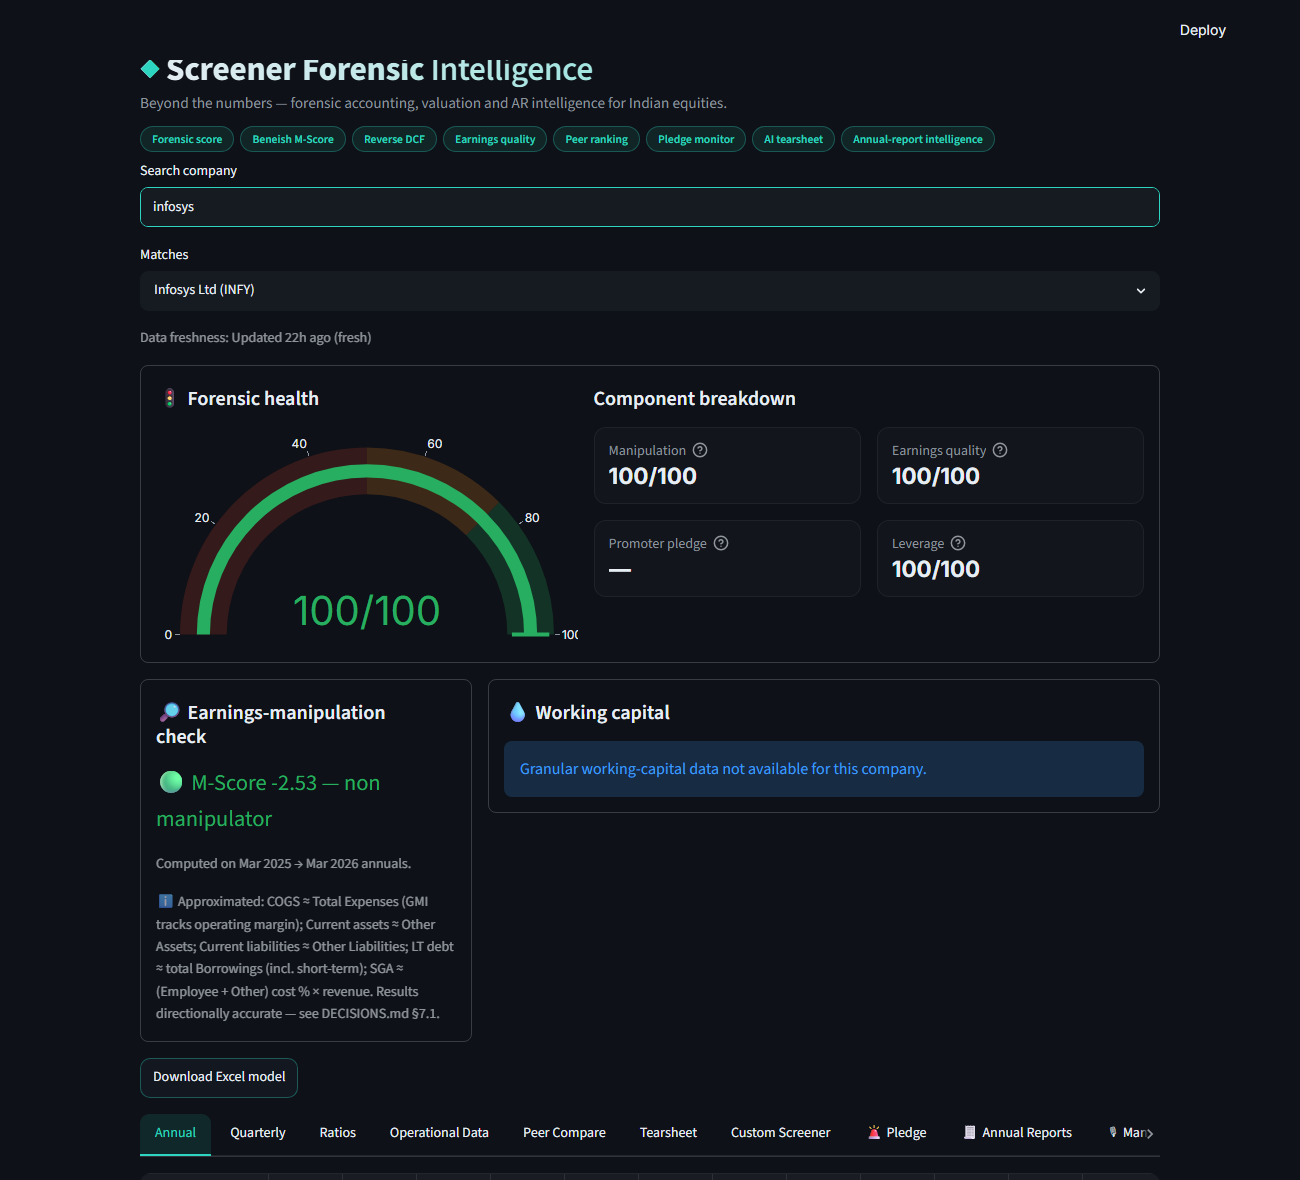
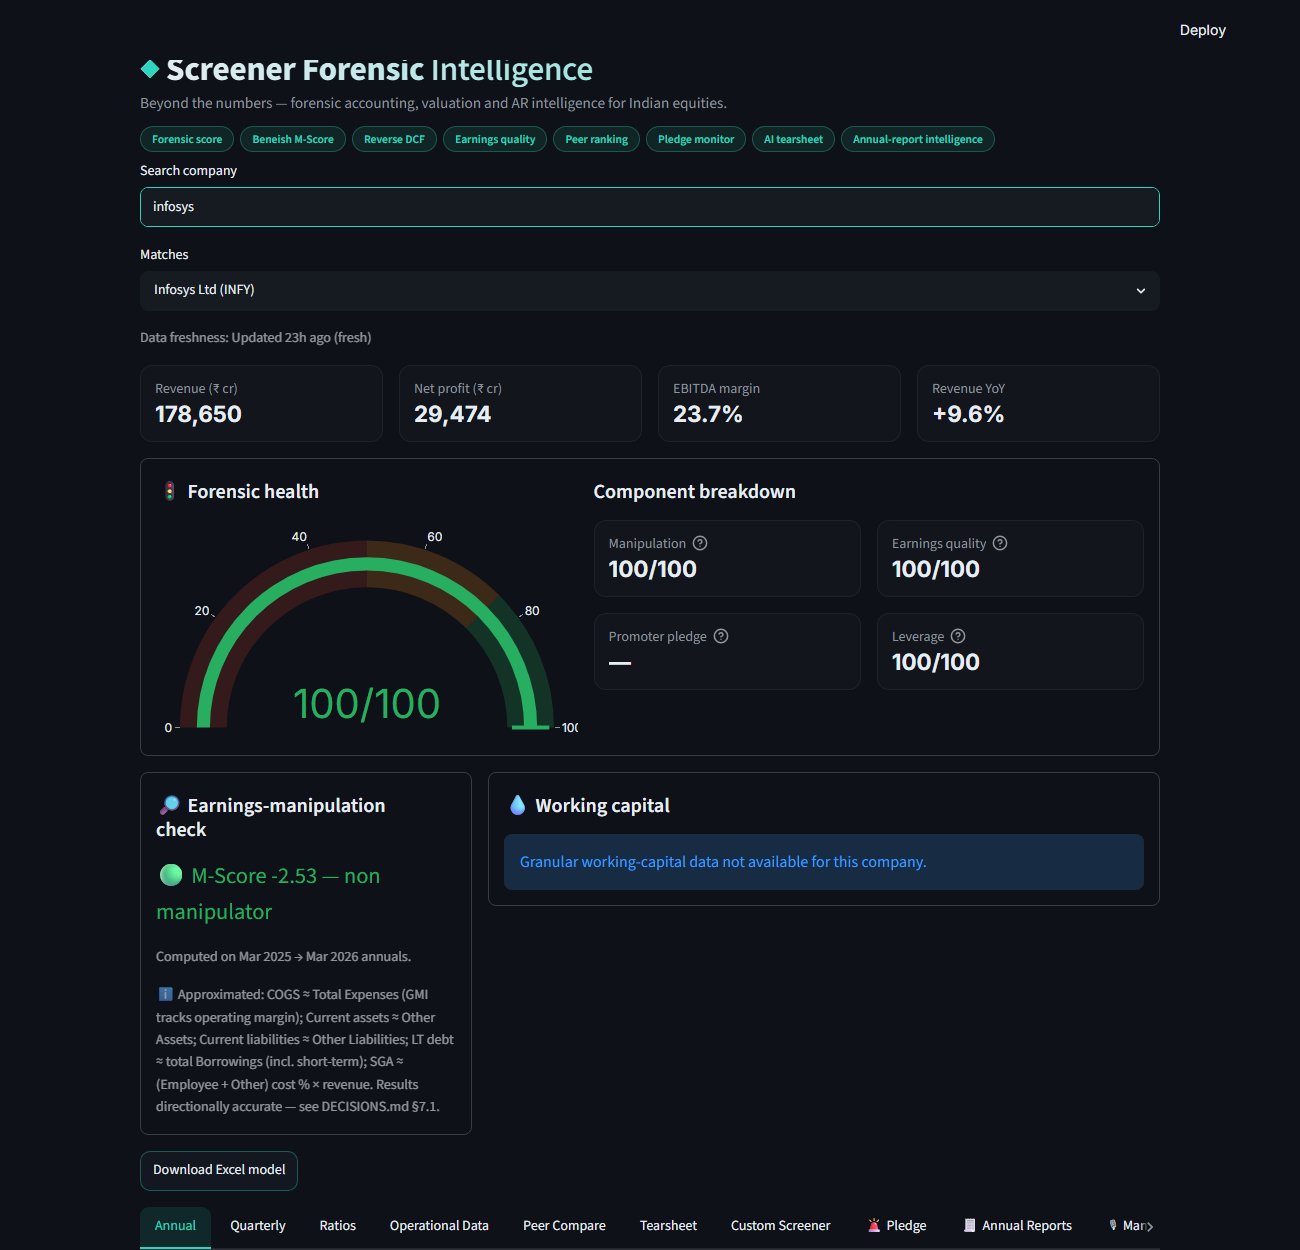
feat: real Chrome UA, KPI strip, formatted tables, thread-safe sessions
- fix: replace the bot user-agent ("ScreenerFinanceTool/1.0") with a real
  Chrome UA on the main scraper — the likely cause of stripped/blocked pages
  for small caps from datacenter IPs (matches the AR downloader's fingerprint).
- ui: headline KPI strip (revenue, net profit, EBITDA margin, revenue YoY);
  thousands-formatted statement tables with em-dash for blanks; consistent
  transparent/Inter Plotly theming across the WC heatmap and pledge chart.
- fix: cache the DB *engine* (safe to share) and build a fresh Session per
  run instead of sharing one cached Session across Streamlit's per-user
  threads (SQLAlchemy Sessions aren't thread-safe); page HTML re-hydrated via
  session_state for the pledge/peer features.

464 tests, ~92% coverage, app boots clean.

diff --git a/screener/ui/components.py b/screener/ui/components.py
@@ -26,6 +26,15 @@ _BENEISH_STYLE = {
 }
 
 
+# Shared Plotly layout for a consistent dark, branded look across charts.
+_PLOTLY_LAYOUT = {
+    "paper_bgcolor": "rgba(0,0,0,0)",
+    "plot_bgcolor": "rgba(0,0,0,0)",
+    "font": {"color": "#e6edf3", "family": "Inter, sans-serif"},
+    "margin": {"l": 40, "r": 20, "t": 50, "b": 30},
+}
+
+
 def financial_table_to_df(table: FinancialTable | None) -> pd.DataFrame:
     """Convert a FinancialTable to a periods-as-columns DataFrame.
 
@@ -39,6 +48,62 @@ def financial_table_to_df(table: FinancialTable | None) -> pd.DataFrame:
     if table is None:
         return pd.DataFrame()
     return pd.DataFrame.from_dict(table.rows, orient="index", columns=table.periods)
+
+
+def style_statement_df(df: pd.DataFrame) -> "object":
+    """Return a Styler that formats a statement DataFrame for display.
+
+    Thousands-separated, no decimals, em-dash for missing cells, right-aligned.
+
+    Args:
+        df: A statement DataFrame from :func:`financial_table_to_df`.
+
+    Returns:
+        A pandas Styler (pass straight to ``st.dataframe``).
+    """
+    return df.style.format(na_rep="—", precision=0, thousands=",").set_properties(
+        **{"text-align": "right"}
+    )
+
+
+def headline_kpis(fin: CompanyFinancials) -> list[tuple[str, str]]:
+    """Return headline KPI tiles (label, formatted value) for the overview strip.
+
+    Args:
+        fin: Parsed company financials.
+
+    Returns:
+        Up to four (label, value) pairs — latest revenue, net profit, EBITDA
+        margin and YoY revenue growth — omitting any that can't be computed.
+    """
+    pl = fin.profit_loss
+    if pl is None:
+        return []
+
+    def _latest(*needles: str) -> float | None:
+        for needle in needles:
+            row = pl.row(needle)
+            if row:
+                for value in reversed(row):
+                    if value is not None:
+                        return value
+        return None
+
+    revenue = _latest("sales", "revenue")
+    pat = _latest("net profit", "profit after tax")
+    op_profit = _latest("operating profit")
+
+    kpis: list[tuple[str, str]] = []
+    if revenue is not None:
+        kpis.append(("Revenue (₹ cr)", f"{revenue:,.0f}"))
+    if pat is not None:
+        kpis.append(("Net profit (₹ cr)", f"{pat:,.0f}"))
+    if revenue and op_profit is not None:
+        kpis.append(("EBITDA margin", f"{op_profit / revenue * 100:.1f}%"))
+    rev_row = pl.row("sales") or pl.row("revenue")
+    if rev_row and len(rev_row) >= 2 and rev_row[-1] and rev_row[-2]:
+        kpis.append(("Revenue YoY", f"{(rev_row[-1] / rev_row[-2] - 1) * 100:+.1f}%"))
+    return kpis
 
 
 def beneish_flag(result: BeneishResult | None) -> tuple[str, str, str]:
@@ -174,6 +239,7 @@ def build_wc_heatmap_figure(heatmap: dict[str, list]) -> "object":
         title="Working Capital Cycle (days)",
         xaxis_title="Period",
         yaxis_title="Metric",
+        **_PLOTLY_LAYOUT,
     )
     return figure
 
@@ -343,7 +409,9 @@ def build_pledge_figure(history: list) -> "object":
         title="Promoter pledge history",
         yaxis_title="% of promoter holding pledged",
         yaxis_rangemode="tozero",
+        **_PLOTLY_LAYOUT,
     )
+    figure.update_traces(line_color="#2dd4bf", marker_color="#2dd4bf")
     return figure
 
 

diff --git a/screener/tests/test_ui_components.py b/screener/tests/test_ui_components.py
@@ -121,6 +121,41 @@ class TestOperationalToDf:
         assert components.operational_to_df(OperationalData(periods=[], metrics=[])).empty
 
 
+class TestHeadlineKpis:
+    _PAGE = """
+    <html><body><h1>Co</h1>
+      <section id="profit-loss"><table>
+        <thead><tr><th></th><th>Mar 2024</th><th>Mar 2025</th></tr></thead>
+        <tbody>
+          <tr><td>Sales</td><td>10,000</td><td>11,000</td></tr>
+          <tr><td>Operating Profit</td><td>2,000</td><td>2,200</td></tr>
+          <tr><td>Net Profit</td><td>1,200</td><td>1,350</td></tr>
+        </tbody>
+      </table></section>
+    </body></html>
+    """
+
+    def test_kpis_computed(self) -> None:
+        fin = parse_company_financials(self._PAGE)
+        kpis = dict(components.headline_kpis(fin))
+        assert kpis["Revenue (₹ cr)"] == "11,000"
+        assert kpis["Net profit (₹ cr)"] == "1,350"
+        assert kpis["EBITDA margin"] == "20.0%"
+        assert kpis["Revenue YoY"] == "+10.0%"
+
+    def test_empty_without_pl(self) -> None:
+        fin = parse_company_financials("<html><body></body></html>")
+        assert components.headline_kpis(fin) == []
+
+
+class TestStyleStatementDf:
+    def test_returns_styler(self) -> None:
+        import pandas as pd
+        from pandas.io.formats.style import Styler
+        df = pd.DataFrame({"Mar 2024": [10000.0, None]}, index=["Sales", "X"])
+        assert isinstance(components.style_statement_df(df), Styler)
+
+
 class TestDataQualityNote:
     def test_empty_when_all_exact(self) -> None:
         assert components.data_quality_note([], []) == ""

diff --git a/screener/ui/app.py b/screener/ui/app.py
@@ -107,12 +107,16 @@ def _render_header(st: Any) -> None:
 # --------------------------------------------------------------------------- #
 # Resource wiring (cached across reruns)
 # --------------------------------------------------------------------------- #
-def _build_service() -> CompanyDataService:
-    """Construct a CompanyDataService backed by a fresh DB session."""
+def _cached_engine():
+    """Build and migrate the engine once (safe to share across sessions).
+
+    The engine is cached as a Streamlit resource; a *fresh session* is created
+    per run (SQLAlchemy Sessions are not thread-safe and must not be shared
+    across Streamlit's per-user threads).
+    """
     engine = build_engine()
     ensure_schema(engine)
-    session = get_session_factory(engine)()
-    return CompanyDataService(session)
+    return engine
 
 
 def _financials_to_excel_bytes(fin: CompanyFinancials, ar_rows: list, annual_rows: list) -> bytes:
@@ -133,12 +137,12 @@ def _financials_to_excel_bytes(fin: CompanyFinancials, ar_rows: list, annual_row
 # Tab renderers
 # --------------------------------------------------------------------------- #
 def _render_statement_tab(st: Any, title: str, table: Any) -> None:
-    """Render a single parsed statement as a table, or an info message."""
+    """Render a single parsed statement as a formatted table, or an info message."""
     df = components.financial_table_to_df(table)
     if df.empty:
         st.info(f"No {title} data available for this company.")
     else:
-        st.dataframe(df, use_container_width=True)
+        st.dataframe(components.style_statement_df(df), use_container_width=True)
 
 
 def _render_peer_tab(st: Any, service: CompanyDataService, symbol: str) -> None:
@@ -438,7 +442,8 @@ def main() -> None:
     _inject_css(st)
     _render_header(st)
 
-    service = st.cache_resource(_build_service)()
+    engine = st.cache_resource(_cached_engine)()
+    service = CompanyDataService(get_session_factory(engine)())
 
     # --- Search with autocomplete ----------------------------------------- #
     @st.cache_data(ttl=300, show_spinner=False)
@@ -466,15 +471,25 @@ def main() -> None:
     st.caption(f"Data freshness: {components.format_freshness(service.freshness(symbol))}")
 
     # Refresh once per selected symbol; tab clicks rerun the script but must
-    # not hammer Screener with repeat fetches (the service object persists via
-    # cache_resource, so last_html survives reruns for the pledge tab).
+    # not hammer Screener with repeat fetches. The service is rebuilt each run
+    # (fresh session), so the page HTML is cached in session_state and
+    # re-hydrated onto the service for the pledge/peer features.
     if st.session_state.get("loaded_symbol") != symbol:
         with st.spinner(f"Loading {symbol}…"):
             st.session_state["fin"] = service.refresh(symbol)
+            st.session_state["last_html"] = service.last_html
             st.session_state["loaded_symbol"] = symbol
     fin = st.session_state["fin"]
+    service.last_html = st.session_state.get("last_html")
     pledge_history = pledge_monitor.parse_pledge_history(service.last_html or "")
     ar_pair = service.latest_ar_pair(symbol)
+
+    # --- KPI overview strip ----------------------------------------------- #
+    kpis = components.headline_kpis(fin)
+    if kpis:
+        cols = st.columns(len(kpis))
+        for col, (label, value) in zip(cols, kpis):
+            col.metric(label, value)
 
     # --- Headline: composite forensic score ------------------------------- #
     _render_forensic(st, fin, pledge_history)

diff --git a/README.md b/README.md
@@ -112,7 +112,7 @@ The system is split so the cloud limit never blocks you:
 ## Tests & CI
 
 ```bash
-pytest                                   # 457 tests
+pytest                                   # 464 tests
 pytest --cov=screener --cov-fail-under=70   # coverage gate (currently ~92%)
 ```
 